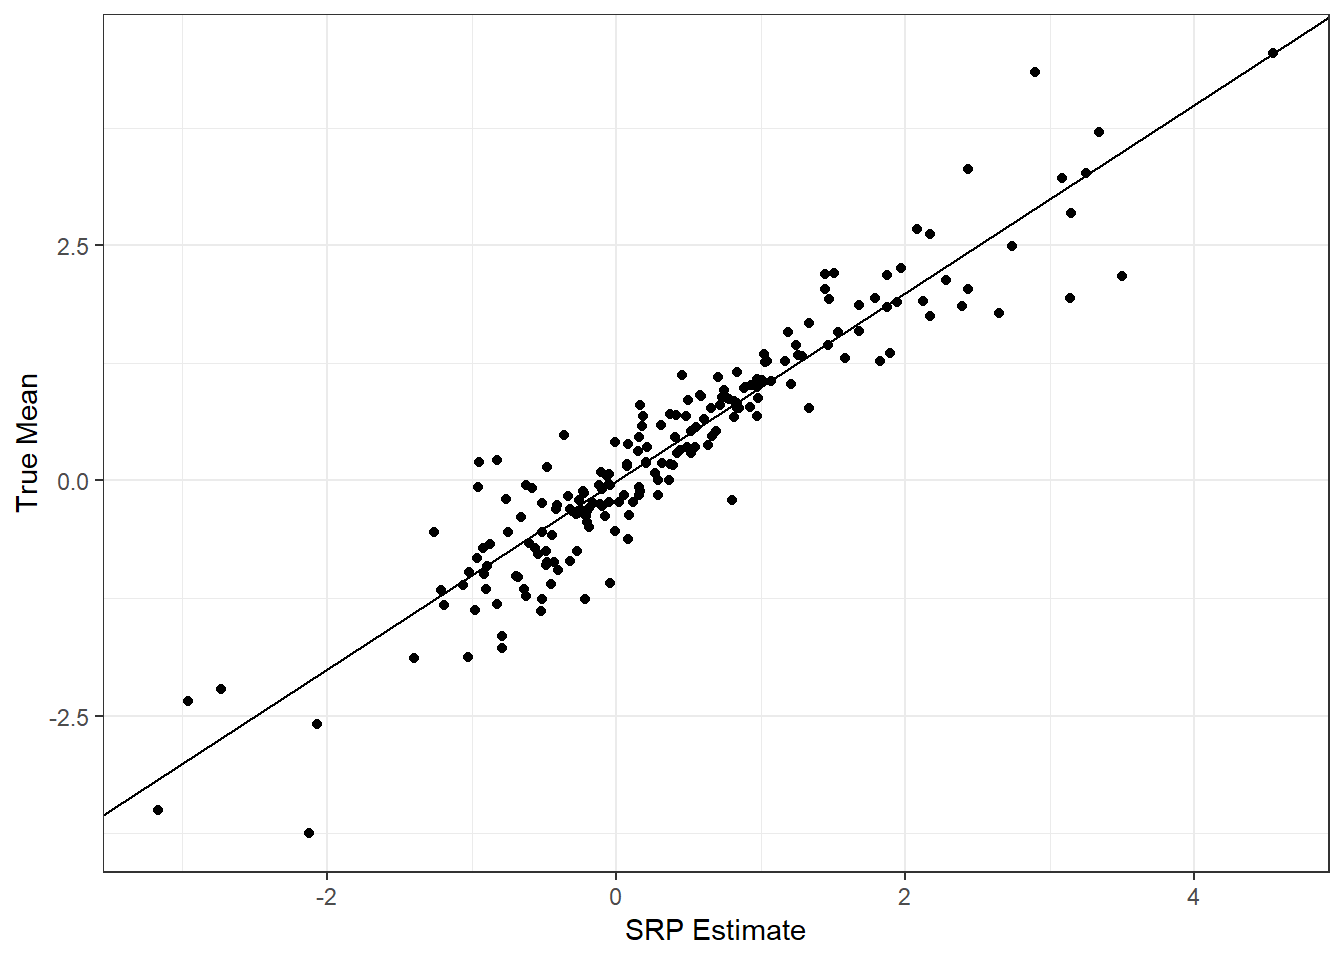
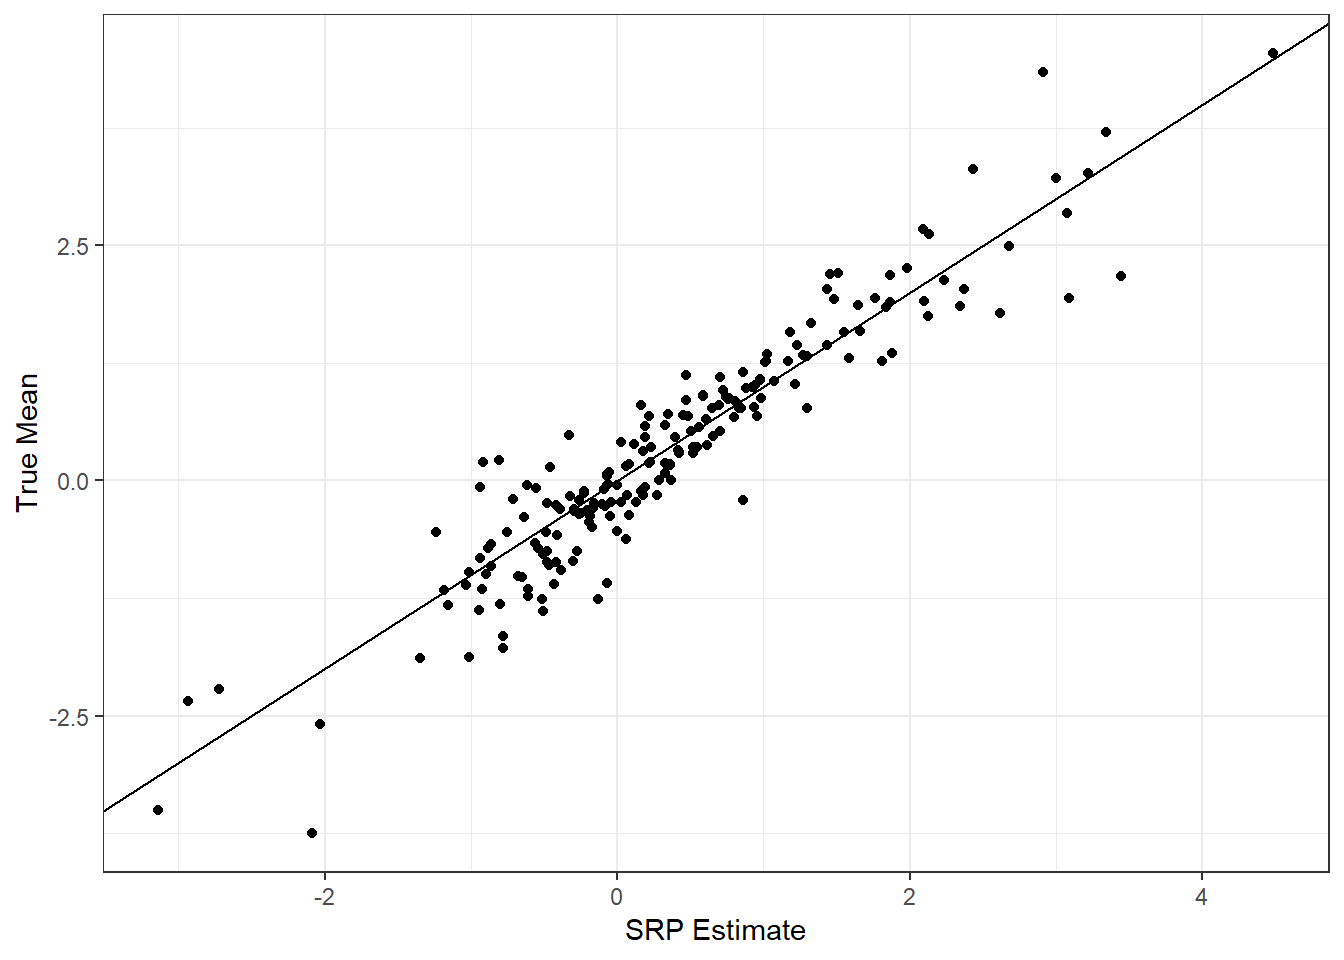
Edited SRP Vignette

diff --git a/srp-vignette.html b/srp-vignette.html
@@ -179,7 +179,7 @@ $(".main-container").removeClass("main-container").removeClass("container-fluid"
 <div id="installation" class="section level2">
 <h2>Installation</h2>
 <p>The <code>SRP</code> package is currently available on GitHub. You can install it using the <code>devtools</code> package.</p>
-<pre class="r"><code>#devtools::install_github(&#39;SRP&#39;, username = &#39;jornstein&#39;)
+<pre class="r"><code>devtools::install_github(&#39;joeornstein/SRP&#39;)
 library(SRP)</code></pre>
 </div>
 <div id="the-data" class="section level2">
@@ -237,6 +237,7 @@ disag_estimates
 </ol>
 <p>We can estimate the first-stage regression using the <code>lme4</code> package.</p>
 <pre class="r"><code>library(lme4)
+#&gt; Warning: package &#39;lme4&#39; was built under R version 3.5.3
 
 model1 &lt;- lmer(y ~ (1|x1) + (1|x2) + unit_covariate + (1|unit), data = trainset)</code></pre>
 <p>For the second stage, we need a <strong>poststratification frame</strong>. For the <code>SRP</code> package, it should come in the following format.</p>
@@ -289,9 +290,12 @@ mrp_estimates
 <p>To start, we must tune and estimate each of the component models separately. The following code estimates a hierarchical linear regression model, LASSO, random forest, KNN, and gradient boosting.</p>
 <pre class="r"><code>library(glmnet)
 library(ranger)
+#&gt; Warning: package &#39;ranger&#39; was built under R version 3.5.3
 library(kknn)
 library(xgboost)
+#&gt; Warning: package &#39;xgboost&#39; was built under R version 3.5.3
 library(caret)
+#&gt; Warning: package &#39;caret&#39; was built under R version 3.5.3
 
 
 #Estimate HLM
@@ -349,9 +353,12 @@ gbmModel &lt;- xgboost(data = dtrain,
                                 gbm_vars = gbm_vars, gbm_factors = NULL, 
                                 gbm_params = list(eta = 0.02), gbm_tune = xgb.tune, 
                                 nfolds = 5)
+#&gt; Warning in checkConv(attr(opt, &quot;derivs&quot;), opt$par, ctrl = control
+#&gt; $checkConv, : Model failed to converge with max|grad| = 0.0152649 (tol =
+#&gt; 0.002, component 1)
 
 stackWeights %&gt;% round(3)
-#&gt; [1] 0.320 0.000 0.127 0.000 0.552</code></pre>
+#&gt; [1] 0.299 0.000 0.139 0.000 0.561</code></pre>
 <p>Then we can poststratify as before.</p>
 <pre class="r"><code>PSFrame_lasso &lt;- cleanDataLASSO(PSFrame, lasso_vars = lasso_vars, lasso_factors = lasso_factors,
                                 new_vars_lasso = colnames(trainset_lasso))$trainset
@@ -373,12 +380,12 @@ head(srp_estimates)
 #&gt; # A tibble: 6 x 2
 #&gt;    unit poststratifiedEstimate
 #&gt;   &lt;int&gt;                  &lt;dbl&gt;
-#&gt; 1     1                 -0.214
-#&gt; 2     2                  0.802
-#&gt; 3     3                 -3.17 
-#&gt; 4     4                 -2.96 
-#&gt; 5     5                  0.269
-#&gt; 6     6                 -2.12</code></pre>
+#&gt; 1     1                 -0.134
+#&gt; 2     2                  0.858
+#&gt; 3     3                 -3.14 
+#&gt; 4     4                 -2.93 
+#&gt; 5     5                  0.325
+#&gt; 6     6                 -2.09</code></pre>
 </div>
 <div id="results" class="section level2">
 <h2>Results</h2>
